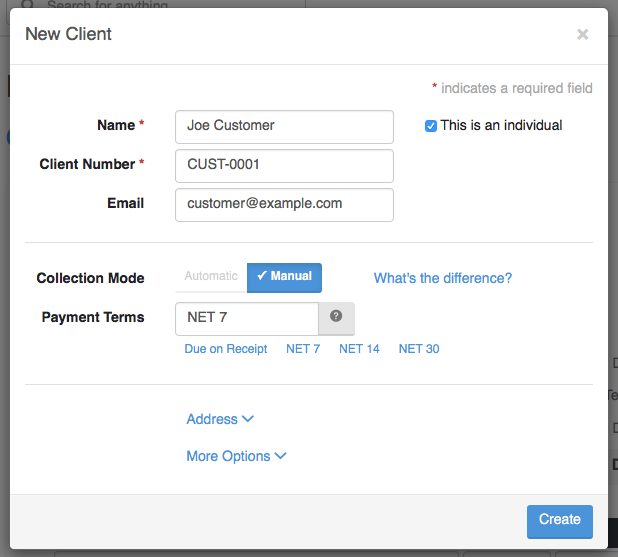
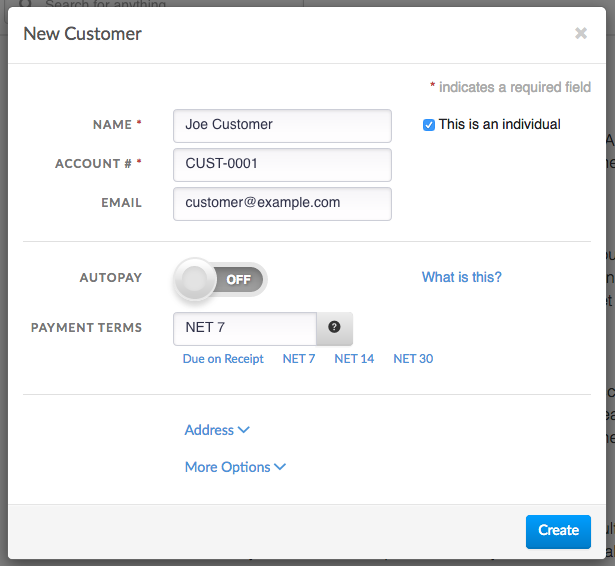
update screenshots

diff --git a/guides/subscription-billing.md b/guides/subscription-billing.md
@@ -60,7 +60,7 @@ We first need to select or create a customer. Let's assume you have not added yo
 
 A new dialog will be opened for you to set up your customer. You can fill in any contact information for the customer now, but it's not required. Next we want to enable **AutoPay** to automatically charge the customer's credit card each billing cycle.
 
-![Subscription AutoPay](../img/new-customer-auto-collections-add-later.png)
+![Subscription AutoPay](../img/new-customer-autopay-add-later.png)
 
 If you had the customer's card in front of you then it would be possible to enter now, but let's assume you don't. By selecting **Add later** for the payment source Invoiced is going to help you send a subscription onboarding request to your customer. When subscribing your customer will be able to securely connect a payment source.
 
